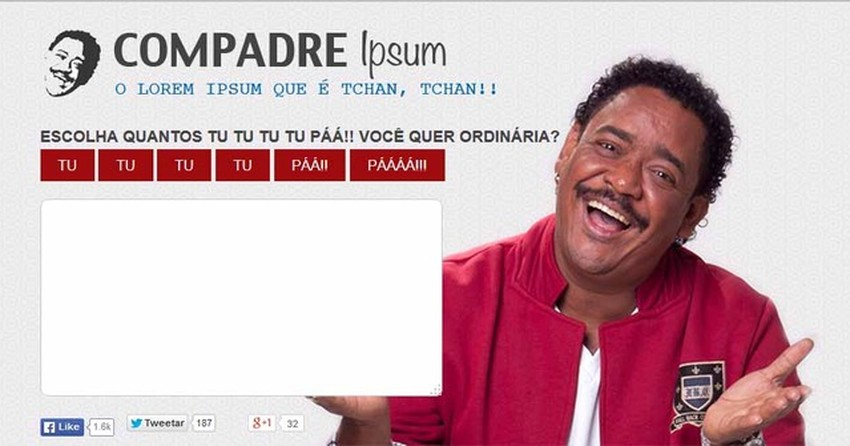
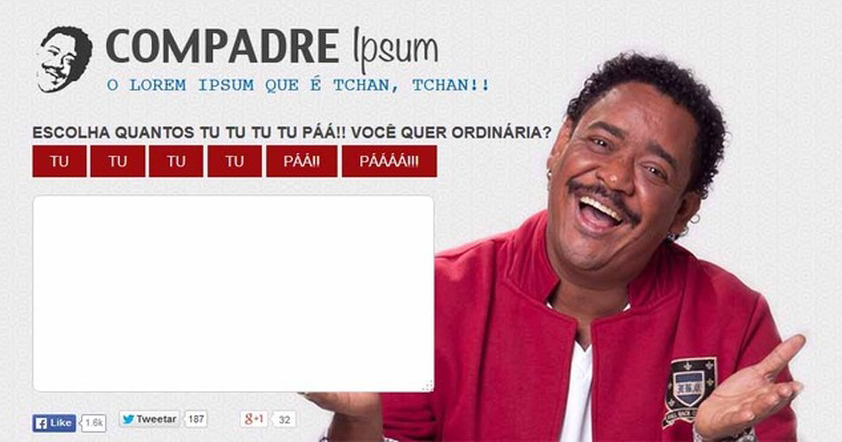
atv2: svg com problemas (grr)

diff --git a/Atividades/Atividade 02/index.html b/Atividades/Atividade 02/index.html
@@ -45,10 +45,20 @@
                 <!-- artigo extendido que conterá um leia mais (aprender como faz isso) -->
                 <h1>how to access lorem ipsum web and create random texts</h1>
                 <h2>Aliquam posuere nibh in consequat convallis. Sed tortor lectus, sodales in molestie sed, vulputate vitae justo. Nam dictum efficitur risus.</h2>
-                <img src="./img/article1image.jpg" alt="Meme with brazillian singer Compadre Washington">
-                <svg heigth="2px" width="550px">
-                    <line x1="600" y1="0" x2="20" y2="0" style="stroke:rgb(30,30,30); stroke-width:2; margin: 0 20px;" />
+                <svg>
+                    <line x1="600" y1="0" x2="20" y2="0" style="stroke:rgb(30,30,30); stroke-width:2;" />
                 </svg>
+                <img src="./img/article1image.jpg" alt="Meme with brazillian singer Compadre Washington">
+                <p>Lorem ipsum dolor sit amet, consectetur adipiscing elit. In at tortor nulla. Nullam et eros lectus. Nunc a felis arcu. In libero enim, vehicula at porta eu, porttitor quis metus. Nulla facilisi. Aenean rhoncus tristique tellus, a dictum tellus congue quis. Donec at venenatis elit.
+
+                    Praesent eget gravida mauris, at cursus urna. Etiam tellus urna, mattis nec lacinia ut, commodo non urna. Aenean ut dignissim dui, et ullamcorper tellus. Donec sollicitudin turpis lectus, ut consectetur ipsum efficitur a. Integer pulvinar suscipit arcu. Phasellus a ipsum in felis bibendum mattis at nec ligula. Praesent sed enim erat. Proin et lacus id tellus scelerisque suscipit. Ut euismod, eros et consectetur semper, nibh mi mollis justo, at dignissim nisl turpis eu nulla. Orci varius natoque penatibus et magnis dis parturient montes, nascetur ridiculus mus. Vestibulum ante ipsum primis in faucibus orci luctus et ultrices posuere cubilia Curae; Etiam ornare ex ligula, non pellentesque nisi lacinia vitae. Etiam ac mollis augue, quis tristique ligula. Fusce porttitor metus ac blandit mattis. Donec at rhoncus urna. Quisque diam dolor, porttitor at scelerisque tempor, fringilla eget ligula.
+                    
+                    Mauris fermentum leo a quam fermentum lacinia. Maecenas vestibulum mauris eu lectus gravida, a efficitur quam viverra. Praesent urna lacus, porttitor non ligula eget, consectetur sagittis sem. Ut metus neque, pretium eget odio pellentesque, cursus facilisis arcu. Aenean fringilla eros id rhoncus laoreet. Pellentesque eleifend enim nec lacus molestie porta. Vivamus malesuada suscipit nunc, et tristique magna porta nec. Curabitur tempor finibus nulla a suscipit. Nulla molestie purus non imperdiet cursus. Phasellus scelerisque tempor iaculis. Nulla sed mollis erat, sit amet laoreet velit. Ut at hendrerit justo, sit amet scelerisque nulla.
+                    
+                    Morbi sed posuere purus, ac gravida neque. Nam sem ante, dictum a lobortis vel, aliquam eu justo. Ut hendrerit sem id elementum porttitor. Cras varius condimentum dolor at lobortis. Lorem ipsum dolor sit amet, consectetur adipiscing elit. Suspendisse tempus dui eget iaculis eleifend. Aenean porta lectus lorem, quis gravida sem convallis ac. Nunc imperdiet lectus a erat aliquet, lacinia dictum mauris eleifend. Nam sagittis enim massa, vitae sagittis ipsum placerat a. Vestibulum luctus dui eget metus viverra, ac aliquam justo commodo. Proin ullamcorper diam eu ligula elementum iaculis.
+                    
+                    Praesent convallis posuere est et placerat. In hac habitasse platea dictumst. Morbi sapien tellus, hendrerit in dictum quis, vestibulum in felis. Curabitur commodo nibh arcu, sed tempus sapien pellentesque at. Sed accumsan et risus at luctus. Phasellus tortor erat, accumsan non dictum ut, sollicitudin eget nulla. Maecenas sodales auctor gravida.
+                </p>
             </article>
             <article>
                 <!-- artigo reduzido que convida o usuário a ir para outra página -->

diff --git a/Atividades/Atividade 02/css/style-index.css b/Atividades/Atividade 02/css/style-index.css
@@ -100,18 +100,26 @@
     text-align: left;
     font-size: 15px;
     font-family: 'Noto Sans Regular';
-    color: rgb(30,30,30);
+    color: rgb(50, 50, 50);
     text-decoration: none;
-    padding: 5px 10px 20px 20px;
+    padding: 5px 10px 10px 20px;
 }
 
 .type1-article img{
     width: 92.5%;
     height: 92.5%;
     border-radius: 20px;
-    margin: 5px 20px 20px 20px;
+    margin: 10px 20px 10px 20px;
 }
 
+.type1-article p{
+    text-align: left;
+    font-size: 12px;
+    font-family: 'Noto Sans Regular';
+    color: rgb(50, 50, 50);
+    text-decoration: none;
+    padding: 10px 20px 20px 20px;
+}
 
 /* ARTICLE-01 FIM */
 
